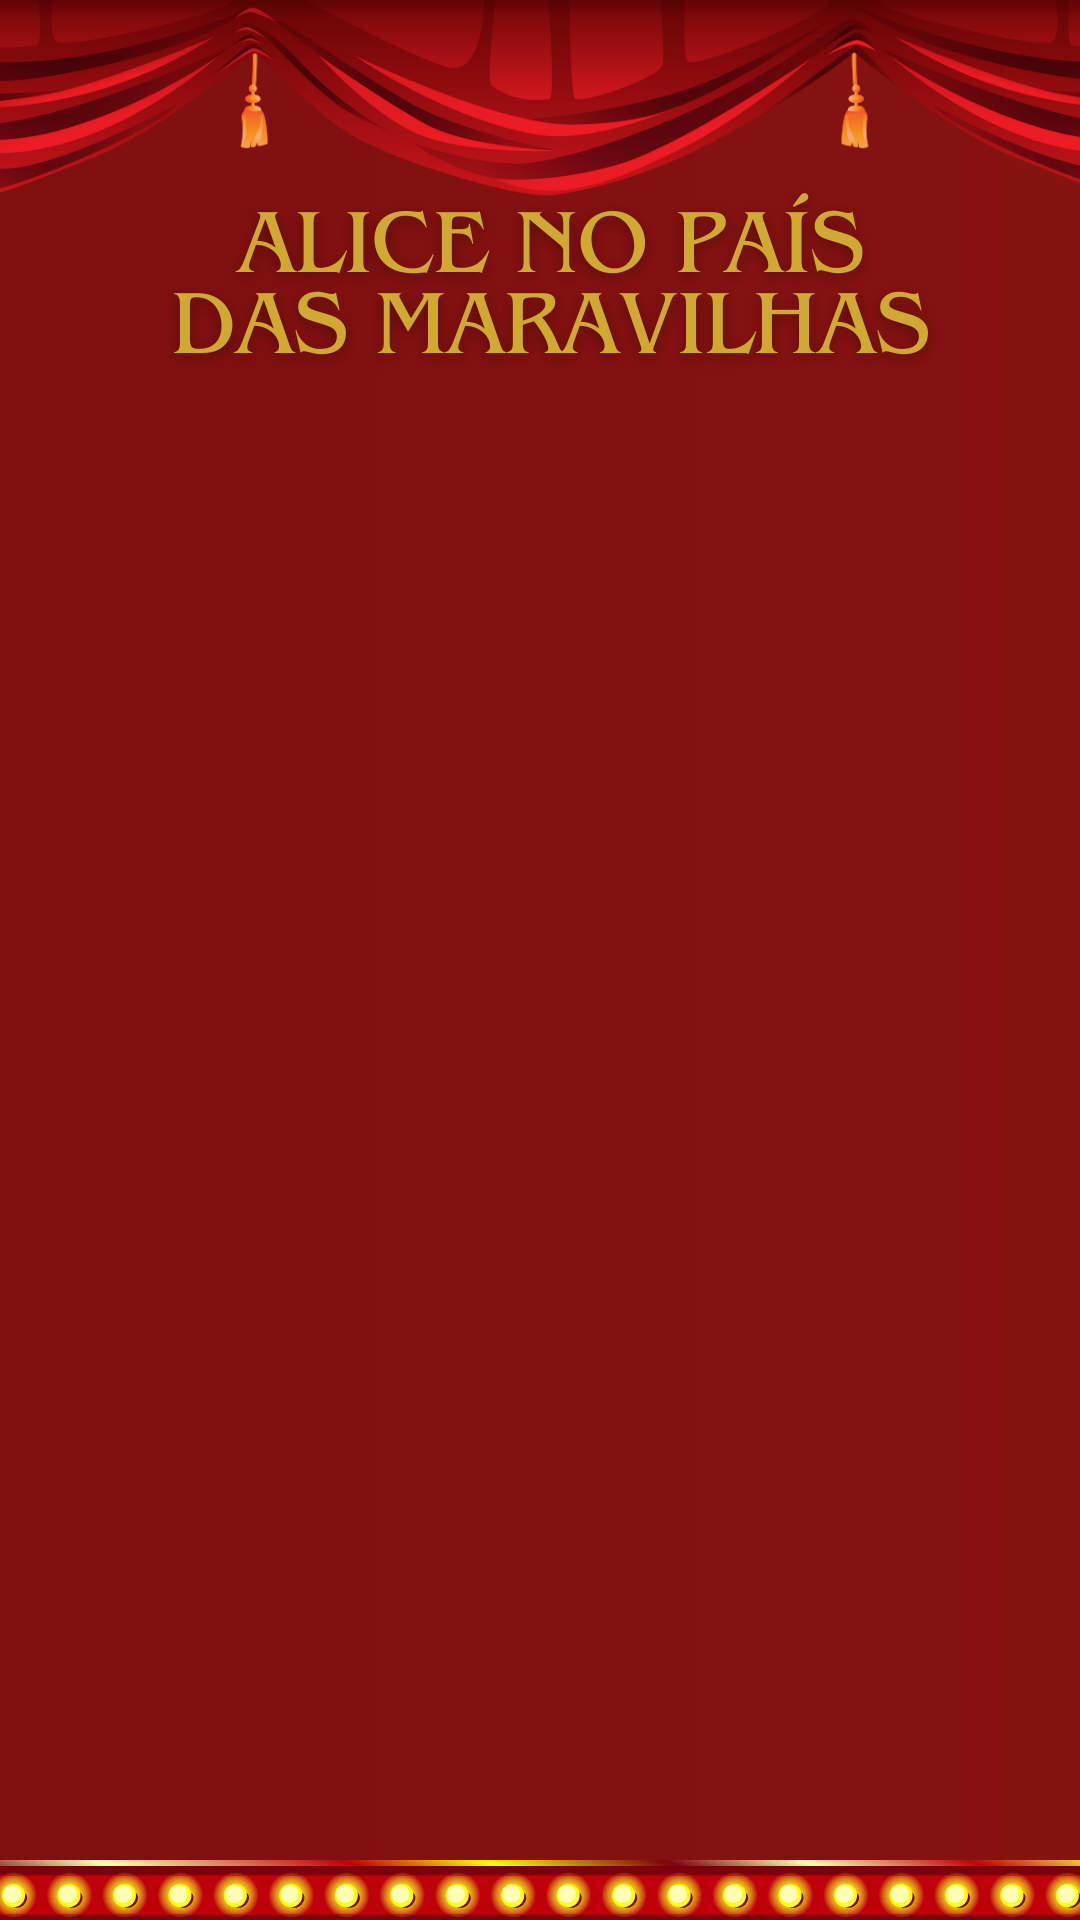
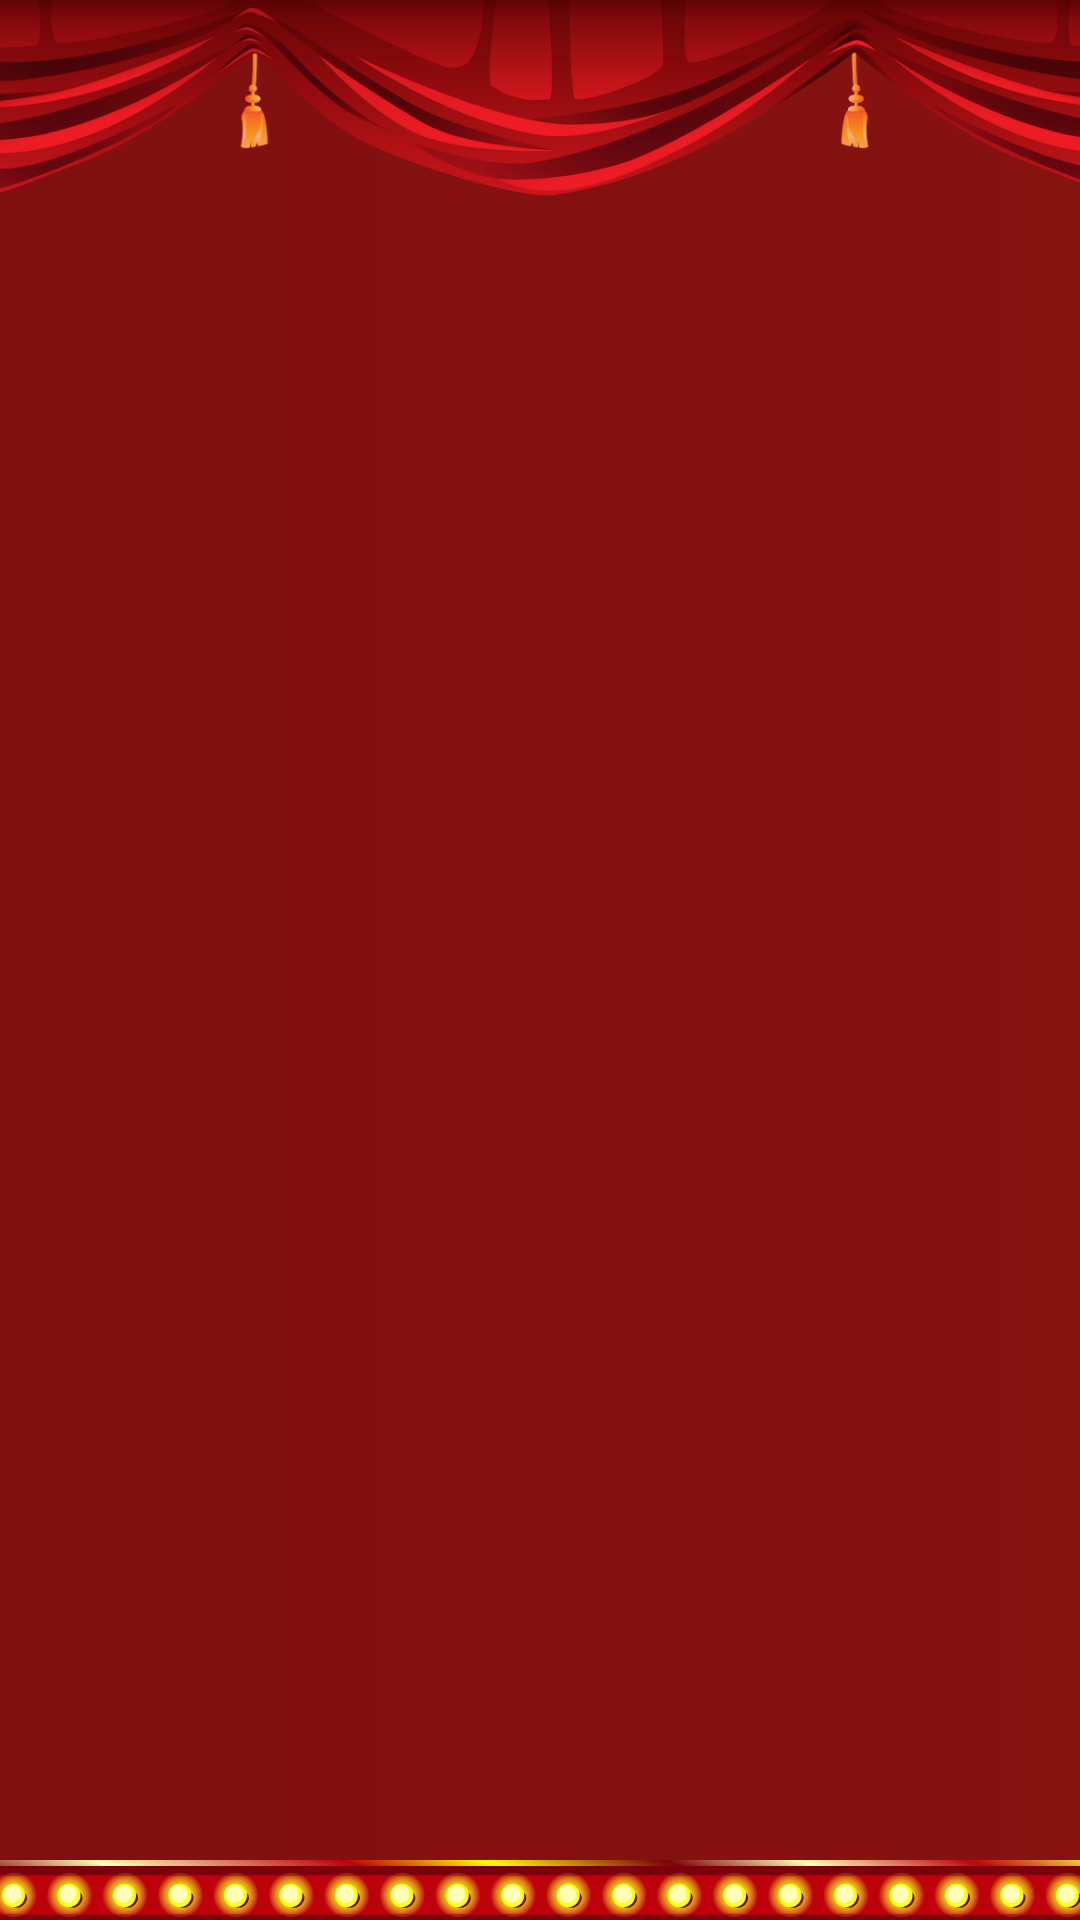
Finalizado

Changed region(s): [[0.1528, 0.0938, 0.8556, 0.1875]]

diff --git a/lib/informativa.dart b/lib/informativa.dart
@@ -16,89 +16,121 @@ class Informativa extends StatelessWidget {
           image: DecorationImage(
               image: AssetImage("img/backInformativa.png"), fit: BoxFit.cover),
         ),
+        
             child: Center(
-              child: ClipRRect(borderRadius: BorderRadius.circular(30),
+              child: Column(
+                mainAxisAlignment: MainAxisAlignment.center,
+                          children: <Widget> [const Text(
+                   "Alice no País das Maravilhas",
+                   style: TextStyle(
+                     color:  Color.fromARGB(226, 250, 188, 89),
+                     fontWeight: FontWeight.bold,
+                     fontSize: 40, 
+                     fontFamily: 'Forum',
+                   )
+                 ),
+                const SizedBox(height: 8,),
+               ClipRRect(borderRadius: BorderRadius.circular(30),
+              
                child: Container(
-                width: 450,
-                height: 600,
-                color: const Color.fromARGB(255, 202, 21, 8),
-               child: Column (
-                mainAxisAlignment: MainAxisAlignment.start, // para alinhar 
-                children: <Widget>[
-                  const SizedBox(height: 20,), //espaço
-                Image.asset('img/poster.jpg', width: 400, height: 250, fit: BoxFit.cover,),
-                const SizedBox(height: 10,),
-                const Text(
-                  "Classificação: A partir 3 anos",
-                  softWrap: true,
-                  style: TextStyle(
-                    color: Color.fromARGB(226, 250, 188, 89),
-                    fontSize: 16,
-                    fontWeight: FontWeight.bold,
-                    fontFamily: 'Open Sans',
-                  ),
-
-                ),
-                const SizedBox(height: 3,),
-                const Text(
-                  "Alice, uma menina que adormece lendo sob uma árvore, acorda em um mundo imaginativo. Ela segue um coelho branco até sua toca na floresta, onde encontra personagens falantes como um Pássaro Marinheiro, um Fantasminha Camarada, uma Porta Falante, um Bruxo atrevido e a Rainha de Copas, que traz muita confusão para a história.",
-                  style: TextStyle(
-                    color: Colors.white,
-                    fontSize: 16, 
-                    fontFamily: 'Open Sans',
-                  )
-                ),
-
-                const SizedBox(height: 5,),
-                const Text(
-                  "Elenco:",
-                  softWrap: true,
-                  style: TextStyle(
-                    color: Color.fromARGB(226, 250, 188, 89),
-                    fontSize: 16,
-                    fontWeight: FontWeight.bold,
-                    fontFamily: 'Open Sans',
-                  ),
-
-                ),
-                const SizedBox(height: 3,),
-                const Text(
-                  "Talytha Pugliesi, Thiago Tavares, Fani Feldman, Renan Ferraz e Álvaro Franco.",
-                  style: TextStyle(
-                    color: Colors.white,
-                    fontSize: 16, 
-                    fontFamily: 'Open Sans',
-                  )
-                ),
-
+                 width: 450,
+                 height: 600,
+                 color: const Color.fromARGB(255, 202, 21, 8),
+                child: Column (
+                 mainAxisAlignment: MainAxisAlignment.start, // para alinhar 
+                 children: <Widget>[
+                   const SizedBox(height: 20,), //espaço
+                 Image.asset('img/poster.jpg', width: 400, height: 250, fit: BoxFit.cover,),
+                 const SizedBox(height: 10,),
+                 const Text(
+                   "Classificação: A partir 3 anos",
+                   softWrap: true,
+                   style: TextStyle(
+                     color: Color.fromARGB(226, 250, 188, 89),
+                     fontSize: 16,
+                     fontWeight: FontWeight.bold,
+                     fontFamily: 'Open Sans',
+                   ),
+               
+                 ),
+                 const SizedBox(height: 3,),
+                 const Text(
+                   "Alice, uma menina que adormece lendo sob uma árvore, acorda em um mundo imaginativo. Ela segue um coelho branco até sua toca na floresta, onde encontra personagens falantes como um Pássaro Marinheiro, um Fantasminha Camarada, uma Porta Falante, um Bruxo atrevido e a Rainha de Copas, que traz muita confusão para a história.",
+                   style: TextStyle(
+                     color: Colors.white,
+                     fontSize: 16, 
+                     fontFamily: 'Open Sans',
+                   )
+                 ),
+               
                  const SizedBox(height: 5,),
-                const Text(
-                  "Local e Datas :",
-                  softWrap: true,
-                  style: TextStyle(
-                    color: Color.fromARGB(226, 250, 188, 89),
-                    fontSize: 16,
-                    fontWeight: FontWeight.bold,
-                    fontFamily: 'Arial',
-                  ),
-
-                ),
-                const SizedBox(height: 3,),
-                const Text(
-                  "Teatro Augusta: De quarta a domingo, das 14h às 21h.",
-                  style: TextStyle(
-                    color: Colors.white,
-                    fontSize: 16, 
-                    fontFamily: 'Open Sans',
-                  ),
-                ),
-              ],
-                ),
+                 const Text(
+                   "Elenco:",
+                   softWrap: true,
+                   style: TextStyle(
+                     color: Color.fromARGB(226, 250, 188, 89),
+                     fontSize: 16,
+                     fontWeight: FontWeight.bold,
+                     fontFamily: 'Open Sans',
+                   ),
+               
+                 ),
+                 const SizedBox(height: 3,),
+                 const Text(
+                   "Talytha Pugliesi, Thiago Tavares, Fani Feldman, Renan Ferraz e Álvaro Franco.",
+                   style: TextStyle(
+                     color: Colors.white,
+                     fontSize: 16, 
+                     fontFamily: 'Open Sans',
+                   )
+                 ),
+               
+                  const SizedBox(height: 5,),
+                 const Text(
+                   "Local e Datas :",
+                   softWrap: true,
+                   style: TextStyle(
+                     color: Color.fromARGB(226, 250, 188, 89),
+                     fontSize: 16,
+                     fontWeight: FontWeight.bold,
+                     fontFamily: 'Open Sans',
+                   ),
+               
+                 ),
+                 const SizedBox(height: 3,),
+                 const Text(
+                   "Teatro Augusta: De quarta a domingo, das 14h às 21h.",
+                   style: TextStyle(
+                     color: Colors.white,
+                     fontSize: 16, 
+                     fontFamily: 'Open Sans',
+                   ),
+                 ),
+               ],
+                 ),
+               
+               
+               ),
               ),
-            ),
-            ),
-    ),
-    ),
+              const SizedBox(height: 50,),
+              ElevatedButton(
+                   onPressed: () {
+                     Navigator.pop(context);
+                   },
+                    style: ElevatedButton.styleFrom(
+                backgroundColor: const Color.fromARGB(255, 202, 21, 8), // Define a cor de fundo para vermelho
+                    ),
+                   child: const Text('Voltar',
+                    style: TextStyle(
+                      color:  Colors.white,
+                    ),
+                   ),
+              ),
+                ],
+                 ),
+              ),
+            )
+        ),
     );
     
 
